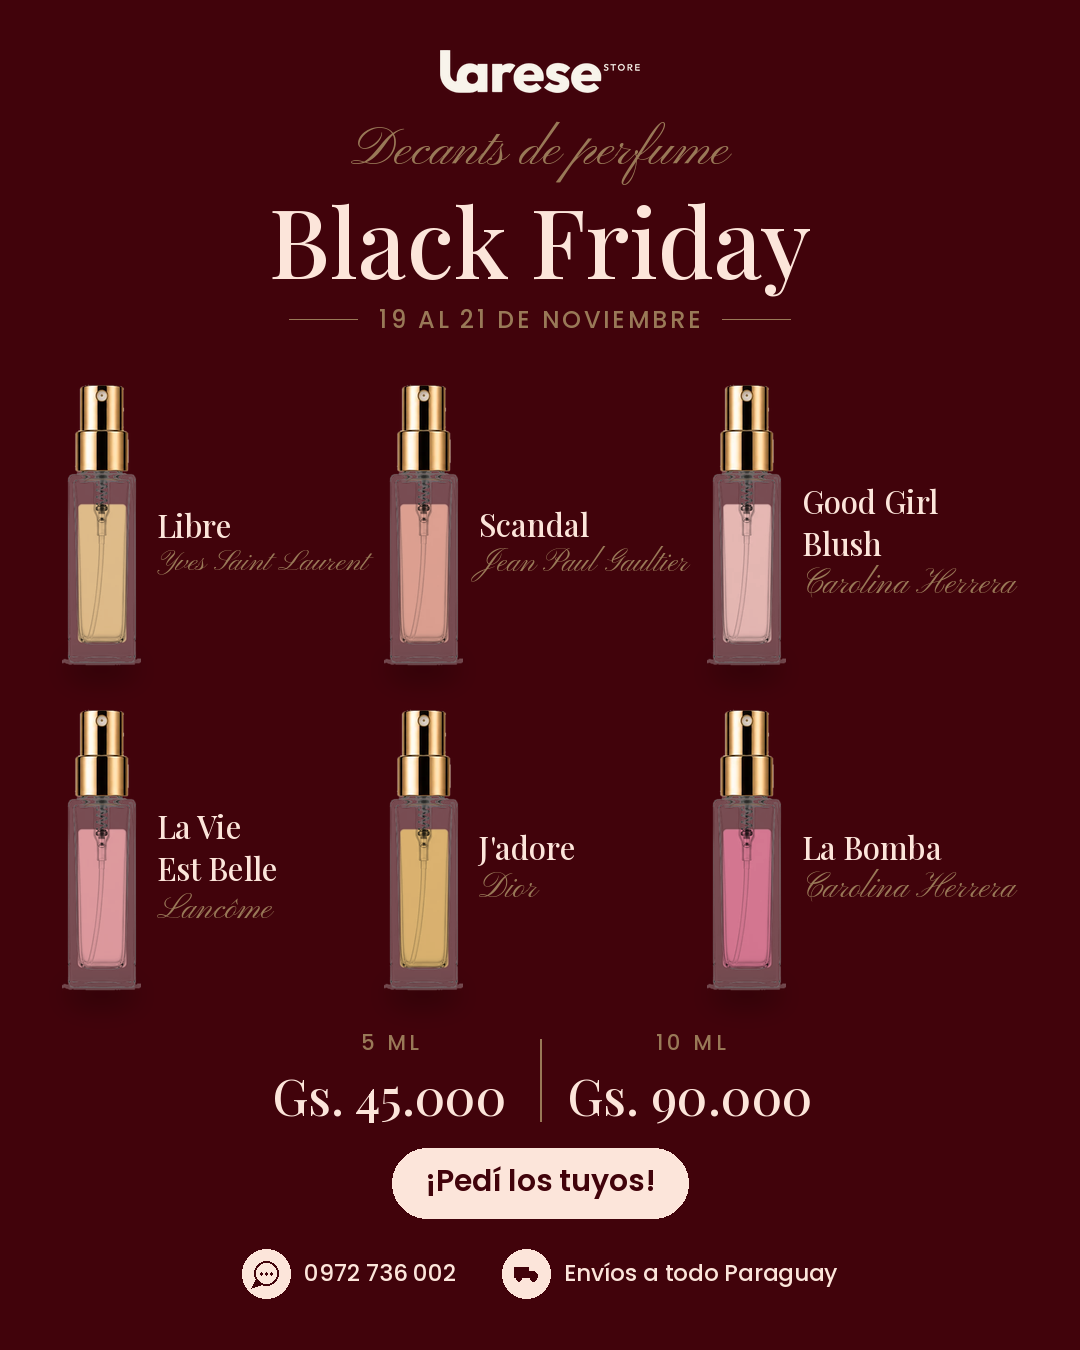
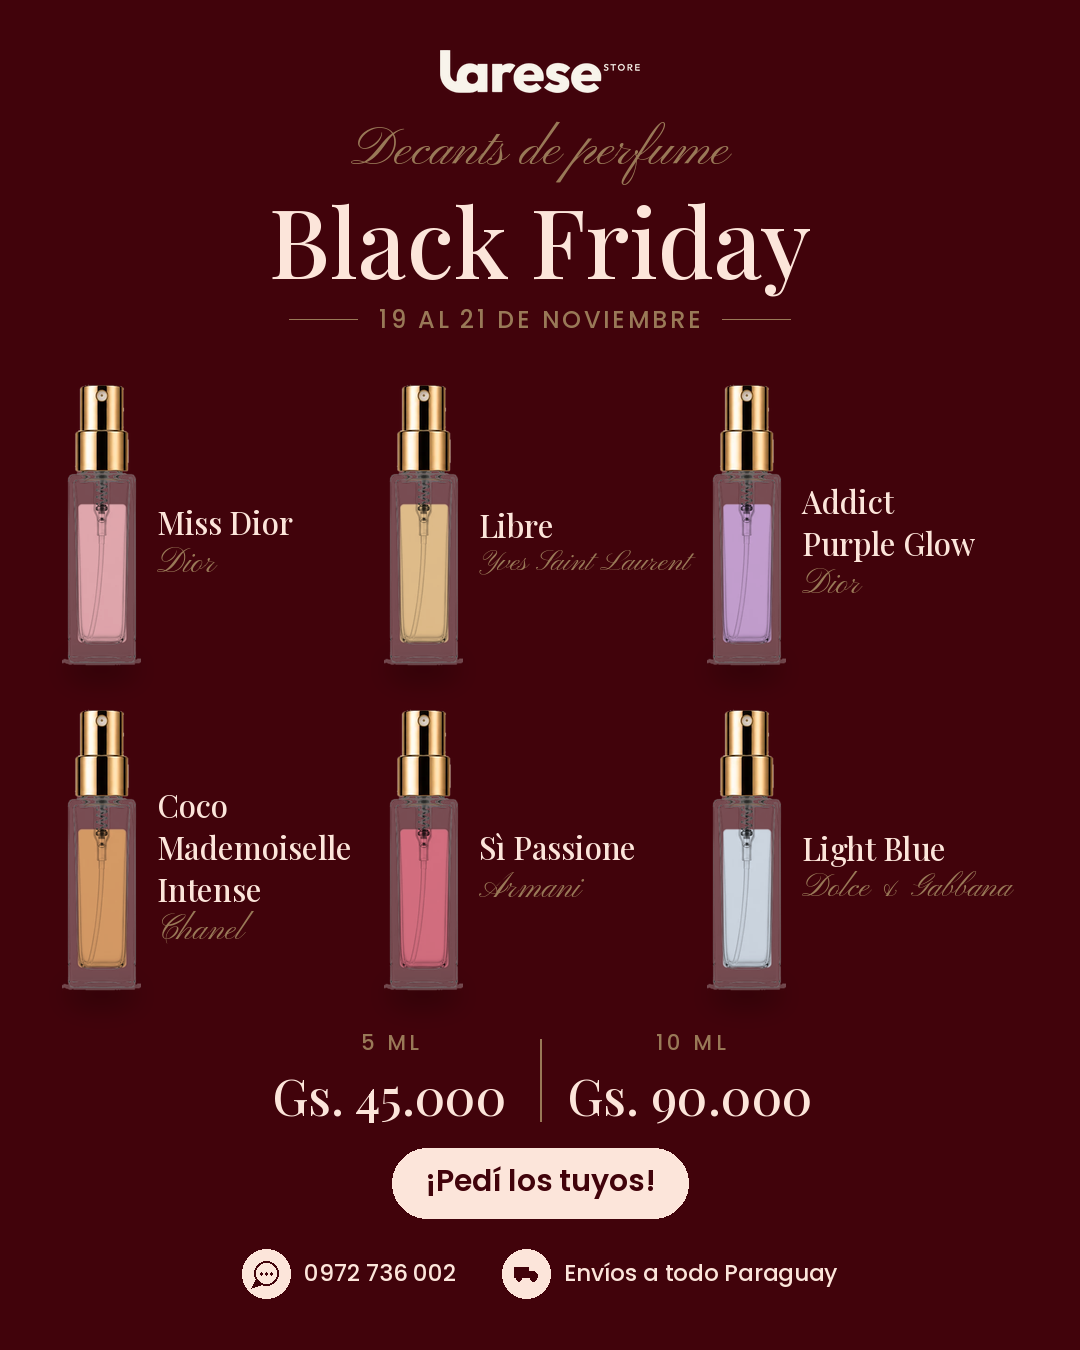
Black Friday: use the 17 available perfumes (flyer and carousel list)
Claude-Session: https://claude.ai/code/session_01DnzkNLcZedFpQcyR6bg5VG

diff --git a/flyer-black-friday-decants/carrusel/armar_carrusel.py b/flyer-black-friday-decants/carrusel/armar_carrusel.py
@@ -2,9 +2,9 @@
 """Carrusel Black Friday de decants (19 al 21 de noviembre), todo en fondo vino.
 
 Slide 1: portada con los decants y los dos precios.
-Slides 2 a 7: una fragancia por slide, con el frasco original y al lado sus decants
-de 5 y 10 ml (foto real del frasquito, con el color de ese perfume) y el precio de cada uno.
-Slide 8: cierre con el WhatsApp.
+Slides 2 a 18: los 17 perfumes disponibles, uno por slide, con el frasco original y al lado
+sus decants de 5 y 10 ml (foto real del frasquito, con el color de ese perfume) y el precio.
+Slide 19: cierre con el WhatsApp. (Instagram acepta hasta 20 slides.)
 
 Estilo editorial de herramientas/carrusel-bordo (estampilla bordó, Playfair, Pinyon Script, Poppins).
 
@@ -29,21 +29,46 @@ SALIDA = AQUI
 FECHAS = "19 al 21 de noviembre"
 PRECIOS = [("5 ml", 45000, 5), ("10 ml", 90000, 10)]
 
+# Los 17 perfumes disponibles para el Black Friday (lista de la dueña, 18 de noviembre).
 # nombre, marca, tipo, notas, foto, color del perfume en el decant
 FRAGANCIAS = [
+    ("Miss Dior", "Dior", "Eau de Parfum",
+     "El floral más romántico de Dior, en su nueva versión.", "p-miss-dior-x4.png", (240, 175, 182)),
+    ("J'adore", "Dior", "Eau de Parfum",
+     "Un bouquet luminoso de jazmín y nardos. Clásico y sofisticado.", "s-jadore.jpg", (232, 190, 110)),
+    ("Addict Rosy Glow", "Dior", "Eau de Parfum",
+     "Lichi, rosa y un fondo cremoso de vainilla.", "p-rosy-glow-x4.png", (240, 160, 186)),
+    ("Addict Peachy Glow", "Dior", "Eau de Parfum",
+     "Durazno jugoso y jazmín sobre vainilla y crema batida.", "p-peachy-glow-x4.png", (245, 178, 145)),
+    ("Addict Purple Glow", "Dior", "Eau de Parfum",
+     "Flores confitadas, frambuesa e iris sobre un fondo de vainilla.", "p-purple-glow-x4.png", (205, 165, 222)),
+    ("Coco Mademoiselle Intense", "Chanel", "Eau de Parfum Intense",
+     "La versión más profunda y sensual del clásico de Chanel.", "p-coco-mademoiselle-x4.png", (226, 160, 98)),
     ("Libre", "Yves Saint Laurent", "Eau de Parfum",
      "Lavanda francesa y azahar sobre un fondo de vainilla.", "10-libre-x4.png", (238, 200, 140)),
-    ("Scandal", "Jean Paul Gaultier", "Eau de Parfum",
-     "Miel y gardenia: femenino, empolvado e irresistible.", "13-scandal-x4.png", (234, 168, 150)),
-    ("Good Girl Blush", "Carolina Herrera", "Eau de Parfum",
-     "La versión empolvada y suave de Good Girl, dulce y floral.", "good-girl-blush-x4.png", (246, 195, 190)),
-    ("La Vie Est Belle", "Lancôme", "Eau de Parfum",
-     "Iris, praliné y vainilla: el dulce más elegante.", "12-la-vie-est-belle-x4.png", (236, 160, 165)),
-    ("J'adore", "Dior", "Eau de Parfum",
-     "Un bouquet luminoso de jazmín y nardos. Clásico y sofisticado.", "11-jadore.jpg", (232, 190, 110)),
-    ("La Bomba", "Carolina Herrera", "Eau de Parfum",
-     "Vibrante y explosiva, con una frescura exótica que seduce.", "07-la-bomba.jpg", (226, 120, 150)),
+    ("Devotion Intense", "Dolce & Gabbana", "Eau de Parfum",
+     "Avellana tostada y flores luminosas: cálido y envolvente.", "r-devotion2.png", (238, 150, 96)),
+    ("Light Blue", "Dolce & Gabbana", "Eau de Toilette",
+     "Limón siciliano y manzana, fresco como un verano en el Mediterráneo.", "s-light-blue.jpg", (214, 230, 242)),
+    ("Born in Roma", "Valentino", "Eau de Parfum",
+     "Jazmín y vainilla con un fondo amaderado, elegante y moderno.", "r-born2.png", (240, 178, 180)),
+    ("Divine Couture", "Jean Paul Gaultier", "Eau de Parfum",
+     "Notas marinas, flores blancas y un toque dulce de merengue.", "r-divine.webp", (238, 150, 130)),
+    ("Scandal Le Parfum", "Jean Paul Gaultier", "Le Parfum",
+     "Jazmín radiante y caramelo salado: intenso y adictivo.", "p-scandal-le-parfum-x4.png", (214, 118, 72)),
+    ("L'Interdit", "Givenchy", "Eau de Toilette",
+     "Flores blancas con un toque cítrico chispeante. Luminoso y vibrante.", "p-linterdit-x4.png", (244, 196, 166)),
+    ("Sì Passione", "Armani", "Eau de Parfum",
+     "Grosella negra, pera, rosa y jazmín sobre una vainilla intensa.", "p-si-passione-x4.png", (224, 108, 128)),
+    ("Bright Crystal", "Versace", "Eau de Toilette",
+     "Yuzu y granada sobre un acorde helado, floral y luminoso.", "p-bright-crystal-x4.png", (242, 182, 194)),
+    ("Erba Pura", "Xerjoff", "Eau de Parfum · Nicho",
+     "Cítricos sicilianos y frutas mediterráneas sobre almizcle blanco.", "s-erba-pura.jpg", (240, 214, 150)),
+    ("Naxos", "Xerjoff", "Eau de Parfum · Nicho",
+     "Cítricos y lavanda que se vuelven miel especiada con canela.", "p-naxos-x4.png", (210, 150, 80)),
 ]
+# en la portada, 6 decants de colores bien distintos
+PORTADA = ["Miss Dior", "Libre", "Addict Purple Glow", "Coco Mademoiselle Intense", "Sì Passione", "Light Blue"]
 
 PRINCIPAL = cc.MARFIL
 SUAVE = cc.DORADO
@@ -76,10 +101,10 @@ def foto(ruta):
             if os.path.exists(base + ext):
                 ruta = base + ext
                 break
-    if os.path.basename(ruta).startswith("11-jadore"):
+    if "jadore" in os.path.basename(ruta):
         # la caja de J'adore es blanca sobre blanco y no se recorta bien: solo el frasco
         im = Image.open(ruta).convert("RGB")
-        recorte = os.path.join(FOTOS, "11-jadore-frasco.png")
+        recorte = os.path.join(FOTOS, "jadore-frasco.png")
         im.crop((int(im.width * 0.56), 0, im.width, im.height)).save(recorte)
         ruta = recorte
     if os.path.basename(ruta).startswith("10-libre"):
@@ -177,7 +202,8 @@ def slide_portada():
     # fila de decants, uno por fragancia, alternando 10 y 5 ml
     base = 930
     paso = 128
-    for i, fr in enumerate(FRAGANCIAS):
+    elegidas = [fr for nombre in PORTADA for fr in FRAGANCIAS if fr[0] == nombre]
+    for i, fr in enumerate(elegidas):
         cap = 10 if i % 2 == 0 else 5
         dec = frasco(fr[5], cap)
         alto = 400 * dec.height / frasco(fr[5], 10).height

diff --git a/flyer-black-friday-decants/fuente/armar_flyer.py b/flyer-black-friday-decants/fuente/armar_flyer.py
@@ -27,12 +27,12 @@ MARFIL = (0xFC, 0xE5, 0xDA)
 # "\n" marca dónde corta el nombre.
 # nombre, marca, color del perfume (los mismos que en el carrusel)
 PERFUMES = [
+    ("Miss Dior", "Dior", (240, 175, 182)),
     ("Libre", "Yves Saint Laurent", (238, 200, 140)),
-    ("Scandal", "Jean Paul Gaultier", (234, 168, 150)),
-    ("Good Girl\nBlush", "Carolina Herrera", (246, 195, 190)),
-    ("La Vie\nEst Belle", "Lancôme", (236, 160, 165)),
-    ("J'adore", "Dior", (232, 190, 110)),
-    ("La Bomba", "Carolina Herrera", (226, 120, 150)),
+    ("Addict\nPurple Glow", "Dior", (205, 165, 222)),
+    ("Coco\nMademoiselle\nIntense", "Chanel", (226, 160, 98)),
+    ("Sì Passione", "Armani", (224, 108, 128)),
+    ("Light Blue", "Dolce & Gabbana", (214, 230, 242)),
 ]
 PRECIOS = [("5 ml", 45000), ("10 ml", 90000)]
 
